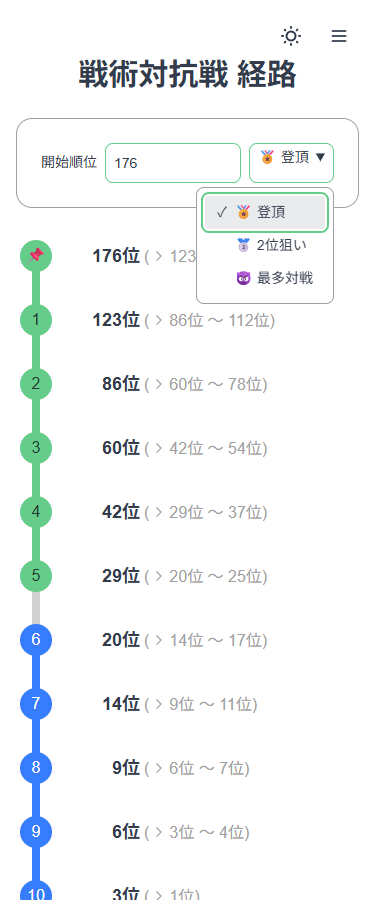
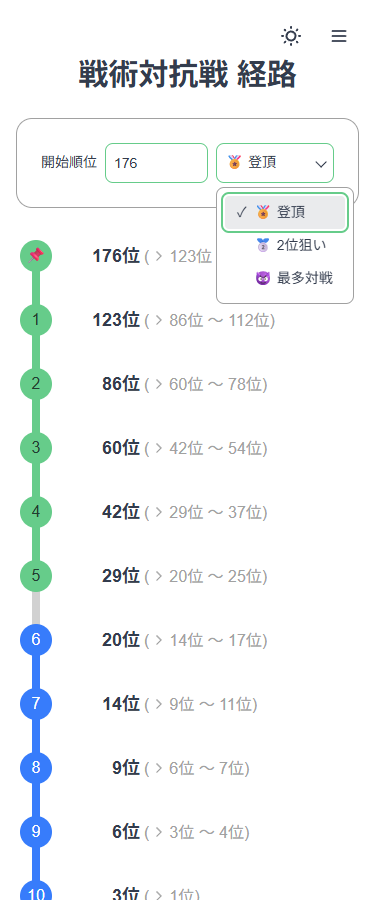
fix: restore stable centered strategy select appearance

Changed region(s): [[0.4987, 0.1556, 0.9387, 0.3422]]

diff --git a/src/app/index.css b/src/app/index.css
@@ -120,6 +120,26 @@ select:focus {
   select::picker(select) {
     appearance: base-select;
   }
+  select {
+    align-items: center;
+    justify-content: space-between;
+    gap: 0.25rem;
+    white-space: nowrap;
+    width: 7.375rem;
+    flex-shrink: 0;
+  }
+  .strategy-compact {
+    width: 3.625rem;
+  }
+  select::picker-icon {
+    content: "";
+    margin-top: -4px;
+    width: 0.45rem;
+    height: 0.45rem;
+    border: solid currentColor;
+    border-width: 0 1.5px 1.5px 0;
+    rotate: 45deg;
+  }
   select::picker(select) {
     font: inherit;
     margin-block-start: 0.25rem;

diff --git a/docs/verification/README.md b/docs/verification/README.md
@@ -192,3 +192,16 @@ Windows Edge 153.0.4234.48で、両テーマ×6幅の開閉・選択・Escape、
 これは実際の未対応ブラウザーでの検証ではありません。
 
 開いたリストの確認画像: [emerald](images/picker-emerald.png) / [night](images/picker-night.png)。
+
+### 閉じた選択欄の退行修正
+
+`base-select` 導入後、閉じた選択欄が文字の上寄せと選択内容に応じた幅になっていました。
+縦中央揃え・折り返しなし・一定幅（日本語ラベル118px、絵文字のみ58px）を指定し、
+矢印は細い山形へ戻しました。開いたリストの配色・余白・枠線は維持しています。
+上記画像を修正後の表示へ更新しました。
+
+Edgeで両テーマ×6幅×3戦略の閉じた欄を確認し、375pxの全6表示も画像で目視確認。
+選択欄・順位入力欄の位置と寸法が変わらず、折り返し・欠け・横溢れなし。
+開いたリストのメニューとの装飾一致と画面内配置も確認しました。
+機能テストに全戦略切替時の選択欄/入力欄の寸法維持チェックを追加し、全12項目が合格。
+lint・全6 Bunテスト（60,592 assertions）・buildも合格しました。

diff --git a/AGENTS.md b/AGENTS.md
@@ -55,6 +55,8 @@ TypeScript; Bun, Vite, TypeScript 7 and Biome. No runtime dependencies.
 - Unchanged DOM rows are reused by a content/tone key to meet throttled timing.
   Keep the input element and its focus intact. Exceptions go to the result alert.
 - At <360px strategy labels are emoji-only; at >=360px include Japanese labels.
+  The closed select keeps a stable width across strategies and centers its label;
+  changing selection must not resize the rank input or wrap the selected label.
 - Themes: emerald/night. System preference applies until a manual preference is
   saved. Keep early theme initialization and theme-color metadata synchronized.
   Valid input keeps the primary border/focus color in both themes; invalid input is red.
